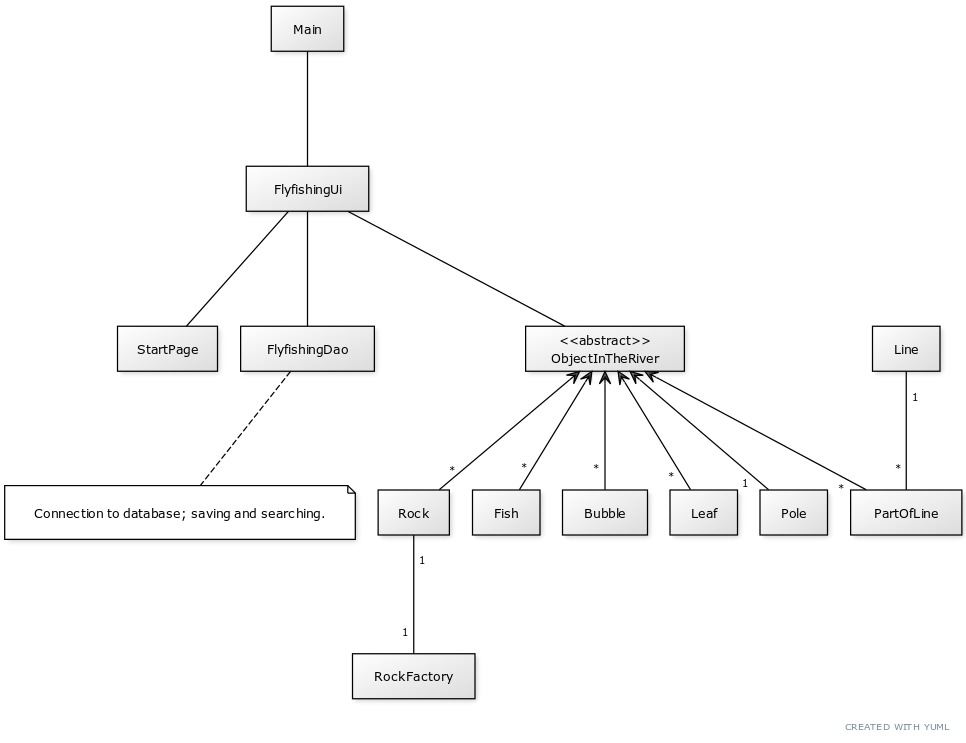
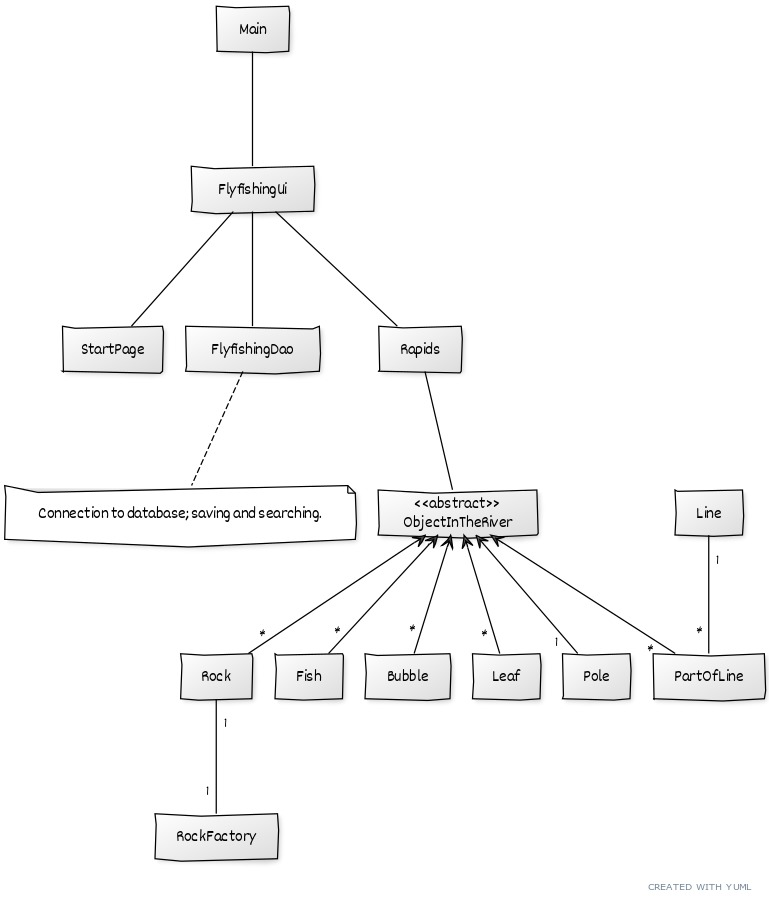
Lisätty luokat kuvaamaan koskea, kiviä (sekä kivitehdas). Lisätty myös testejä mahdollisuuksien mukaan näille luokille. ObjectInTheRiver luokasta tulee abstrakti, joten sen testit vaihtuvat sen perivien luokkien testeiksi.

diff --git a/FlyfishingGame/src/main/java/flyfishinggame/ui/FlyfishingUi.java b/FlyfishingGame/src/main/java/flyfishinggame/ui/FlyfishingUi.java
@@ -1,15 +1,12 @@
 package flyfishinggame.ui;
 
-import java.util.concurrent.atomic.AtomicInteger;
-import java.util.concurrent.atomic.AtomicReference;
+import flyfishinggame.domain.*;
+import java.util.concurrent.atomic.*;
 import javafx.application.Application;
 import javafx.scene.Scene;
-import javafx.scene.control.Button;
-import javafx.scene.control.TextField;
-import javafx.scene.layout.BorderPane;
-import javafx.scene.layout.HBox;
-import javafx.scene.layout.Pane;
-import javafx.scene.text.Text;
+import javafx.scene.control.*;
+import javafx.scene.layout.*;
+import javafx.scene.text.*;
 import javafx.stage.Stage;
 
 /**
@@ -26,6 +23,7 @@ public class FlyfishingUi extends Application {
     public static TextField nicknameField;
     private AtomicReference<String> nickname;
     private AtomicInteger points;
+    private Rapids rapids;
 
     public FlyfishingUi() {
         this.pane = new Pane();
@@ -33,6 +31,7 @@ public class FlyfishingUi extends Application {
         this.startButton = new Button("Start");
         this.nickname = new AtomicReference<String>();
         this.points = new AtomicInteger();
+        this.rapids = new Rapids();
     }
 
     @Override
@@ -42,14 +41,12 @@ public class FlyfishingUi extends Application {
         and asks player's nickname.
             When the player presses the startbutton, the startpage
         changes to the actual gamingsight.*/
-        
         //Creation of the startpage.
         stage = s;
         StartPage startpage = new StartPage();
         startpage.createStartingSight();
 
         //Creation of the actual gamingsight.
-        
         //Borderpane is the base.
         BorderPane borderpane = new BorderPane();
         borderpane.setPrefSize(WIDTH, HEIGHT);
@@ -57,7 +54,7 @@ public class FlyfishingUi extends Application {
         pane.setPrefSize(WIDTH, HEIGHT);
         borderpane.setBottom(pane);
         //Player gets points if catches fish.
-        Text text = new Text(WIDTH - 110, 15, "Points: " + points);
+        Text text = new Text(WIDTH - 110, 15,"Points: " + points);
         borderpane.getChildren().add(text);
         //On the top is relevant instructions for the player.
         Text instructionText = new Text(WIDTH / 2 - 200, 15,
@@ -76,36 +73,32 @@ public class FlyfishingUi extends Application {
         /*Method is used to make new riversight when called
             in the start or when player decides to 
             change the spot.*/
-        createNewSight();
+        rapids.createNewSight();
 
         Scene scene = new Scene(borderpane);
 
         /*In the startpage is startbutton. When user
         is ready (and presses the startbutton),
         the startpage changes to the actual gaming sight.*/
-        
         startButton.setOnAction((event) -> {
             /*Save the nickname from the textfield.
             and turn it to atomic so that it is saved.*/
             String nm = nicknameField.getText();
             nickname = new AtomicReference<String>(nm);
-            
+
             stage.setTitle("Flyfish!");
             stage.setScene(scene);
             stage.show();
         });
 
         changeSpotButton.setOnAction((event) -> {
-            createNewSight();
+            rapids.createNewSight();
         });
 
     }
 
-    public void createNewSight() {
-        //Needs objects to the river.
-    }
-
     public static void main(String[] args) {
-        launch(FlyfishingUi.class);
+        launch(FlyfishingUi.class
+        );
     }
 }

diff --git a/FlyfishingGame/src/main/java/flyfishinggame/domain/Rapids.java b/FlyfishingGame/src/main/java/flyfishinggame/domain/Rapids.java
@@ -1,0 +1,52 @@
+package flyfishinggame.domain;
+
+import static flyfishinggame.ui.FlyfishingUi.HEIGHT;
+import static flyfishinggame.ui.FlyfishingUi.WIDTH;
+import static flyfishinggame.ui.FlyfishingUi.pane;
+import java.util.*;
+import javafx.animation.AnimationTimer;
+
+/**
+ *
+ * @author tamsi
+ */
+public class Rapids {
+
+    public List<Rock> rocks;
+
+    public Rapids() {
+        this.rocks = new ArrayList<>();
+    }
+
+    public void flow() {
+        new AnimationTimer() {
+
+            @Override
+            public void handle(long now) {
+                //Actions in here.
+            }
+        }
+                .start();
+    }
+
+    public void createNewSight() {
+        if (!rocks.isEmpty()) {
+            rocks.forEach(rock -> pane.getChildren().remove(rock.getShapePolygon()));
+            rocks.clear();
+        }
+
+        for (int i = 0; i < 3; i++) {
+            Random rnd = new Random();
+
+            int positionX = 150 + rnd.nextInt(WIDTH - 150);
+            int positionY = 50 + rnd.nextInt(HEIGHT - 50);
+
+            int size = 40 + rnd.nextInt(20);
+            Rock rock = new Rock(positionX, positionY, size);
+            this.rocks.add(rock);
+        }
+
+        rocks.forEach(rock -> pane.getChildren().add(rock.getShapePolygon()));
+
+    }
+}

diff --git a/FlyfishingGame/src/test/java/flyfishinggame/domain/RockTest.java b/FlyfishingGame/src/test/java/flyfishinggame/domain/RockTest.java
@@ -1,0 +1,34 @@
+package flyfishinggame.domain;
+
+import javafx.geometry.Point2D;
+import org.junit.Test;
+import static org.junit.Assert.*;
+
+/**
+ *
+ * @author tamsi
+ */
+public class RockTest {
+
+    Rock rock;
+
+    @Test
+    public void constructorSetsTheSizeRight() {
+        rock = new Rock(1,1,123);
+        assertEquals(123, rock.getSize(), 0);
+    }
+
+    @Test
+    public void constructorSetsThePointRight() {
+        rock = new Rock(134, 421, 6.0);
+        //Rock won't move.
+        assertEquals(new Point2D(0, 0), rock.getMovement());
+    }
+    
+    @Test
+    public void contructorSetsTheCoordinatesRight() {
+        rock = new Rock(198, 252, 67);
+        assertEquals(198, rock.getX(), 0);
+        assertEquals(252, rock.getY(), 0);
+    }
+}

diff --git a/FlyfishingGame/src/test/java/flyfishinggame/domain/RockFactoryTest.java b/FlyfishingGame/src/test/java/flyfishinggame/domain/RockFactoryTest.java
@@ -1,0 +1,27 @@
+
+package flyfishinggame.domain;
+
+
+import javafx.scene.shape.Polygon;
+import org.junit.After;
+import org.junit.AfterClass;
+import org.junit.Before;
+import org.junit.BeforeClass;
+import org.junit.Test;
+import static org.junit.Assert.*;
+
+/**
+ *
+ * @author tamsi
+ */
+public class RockFactoryTest {
+    
+    RockFactory rf;
+    
+    @Test
+    public void factoryMakesUniqueRock() {
+        rf = new RockFactory();
+        Polygon r1 = rf.createRock(9.9);
+        assertEquals(false, rf.createRock(9.9).equals(r1));
+    }
+}

diff --git a/FlyfishingGame/src/test/java/flyfishinggame/domain/RapidsTest.java b/FlyfishingGame/src/test/java/flyfishinggame/domain/RapidsTest.java
@@ -1,0 +1,21 @@
+
+package flyfishinggame.domain;
+
+import org.junit.Test;
+import static org.junit.Assert.*;
+
+/**
+ *
+ * @author tamsi
+ */
+public class RapidsTest {
+    
+    Rapids r;
+    
+    @Test
+    public void thereIsZeroRocksAtTheBeginning() {
+        r = new Rapids();
+        //In the beginning there is zero rocks.
+        assertEquals(0, r.rocks.size());
+    }
+}

diff --git a/FlyfishingGame/src/main/java/flyfishinggame/domain/ObjectInTheRiver.java b/FlyfishingGame/src/main/java/flyfishinggame/domain/ObjectInTheRiver.java
@@ -8,10 +8,9 @@ import javafx.scene.shape.Polygon;
  * @author tamsi
  */
 
-/*Class describes objects that can be seen
+/*This abstract class describes objects that can be seen
 moving or staying still in the river.
 */
-
 
 public abstract class ObjectInTheRiver {
 
